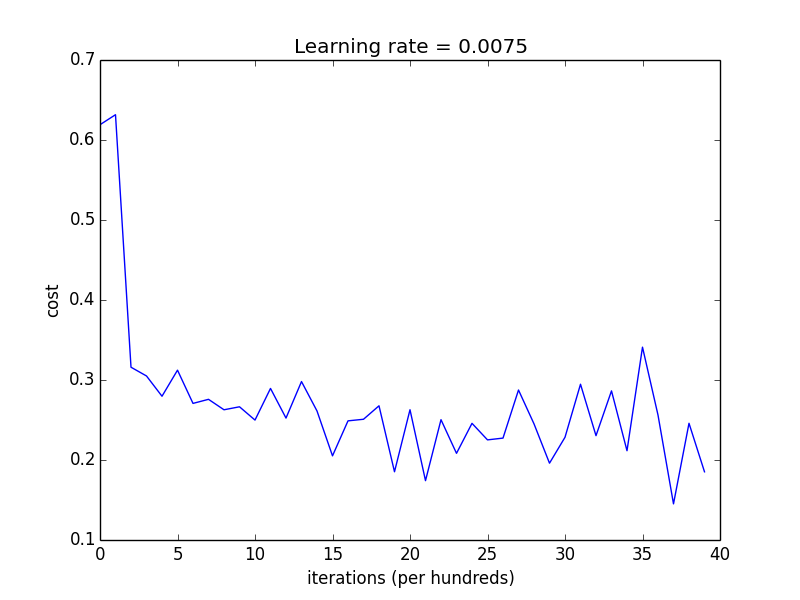
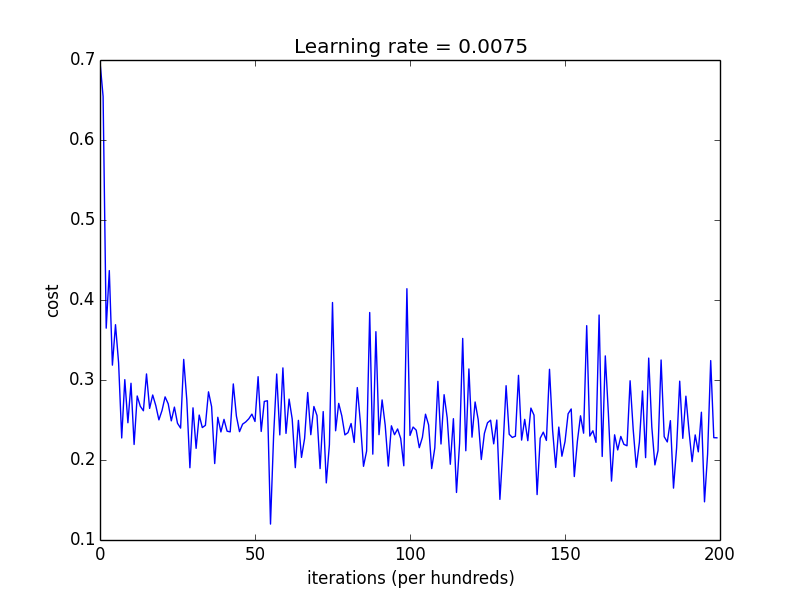
修改REAMDME

diff --git a/lesson4/train_with_paddle.py b/lesson4/train_with_paddle.py
@@ -9,7 +9,7 @@
 Authors: Jiahui Liu(2505774110@qq.com)
 Date:    2017/11/17 17:27:06
 
-使用paddle框架实现深层神经网络识别猫的问题，关键步骤如下：
+使用paddle框架实现浅层神经网络识别“花，型图案，关键步骤如下：
 1.载入数据和预处理：load_data()
 2.初始化
 3.配置网络结构
@@ -26,7 +26,7 @@ import paddle.v2 as paddle
 matplotlib.use('Agg')
 import matplotlib.pyplot as plt
 
-import dnn_utils
+import planar_utils
 
 TRAINING_SET = None
 TEST_SET = None
@@ -48,24 +48,13 @@ def load_data():
     """
     global TRAINING_SET, TEST_SET, DATADIM
 
-    train_set_x_orig, train_set_y, test_set_x_orig, test_set_y, classes = dnn_utils.load_dataset()
-    m_train = train_set_x_orig.shape[0]
-    m_test = test_set_x_orig.shape[0]
-    num_px = train_set_x_orig.shape[1]
+    train_set_x, train_set_y, test_set_x, test_set_y = planar_utils.load_planar_dataset()
 
     # 定义纬度
-    DATADIM = num_px * num_px * 3
+    DATADIM = 2
 
-    # 数据展开,注意此处为了方便处理，没有加上.T的转置操作
-    train_set_x_flatten = train_set_x_orig.reshape(m_train, -1)
-    test_set_x_flatten = test_set_x_orig.reshape(m_test, -1)
-
-    # 归一化
-    train_set_x = train_set_x_flatten / 255.
-    test_set_x = test_set_x_flatten / 255.
-
-    TRAINING_SET = np.hstack((train_set_x, train_set_y.T))
-    TEST_SET = np.hstack((test_set_x, test_set_y.T))
+    TRAINING_SET = np.hstack((train_set_x.T, train_set_y.T))
+    TEST_SET = np.hstack((test_set_x.T, test_set_y.T))
 
 # 读取训练数据或测试数据，服务于train()和test()
 def read_data(data_set):
@@ -262,7 +251,7 @@ def plot_costs(costs):
     plt.plot(costs)
     plt.ylabel('cost')
     plt.xlabel('iterations (per hundreds)')
-    plt.title("Learning rate = 0.000075")
+    plt.title("Learning rate = 0.0075")
     plt.show()
     plt.savefig('costs.png')
 
@@ -286,25 +275,15 @@ def netconfig():
     image = paddle.layer.data(
         name='image', type=paddle.data_type.dense_vector(DATADIM))
 
-    # 隐藏层1，paddle.layer.fc表示全连接层，input=image: 该层输入数据为image
-    # size=20：神经元个数，act=paddle.activation.Relu()：激活函数为Relu()
+    # 隐藏层，paddle.layer.fc表示全连接层，input=image: 该层输入数据为image
+    # size=4：神经元个数，act=paddle.activation.Tanh()：激活函数为Tanh()
     h1 = paddle.layer.fc(
-        input=image, size=20, act=paddle.activation.Relu())
+        input=image, size=4, act=paddle.activation.Tanh())
 
-    # 隐藏层2，paddle.layer.fc表示全连接层，input=h1: 该层输入数据为h1
-    # size=7：神经元个数，act=paddle.activation.Relu()：激活函数为Relu()
-    h2 = paddle.layer.fc(
-        input=h1, size=7, act=paddle.activation.Relu())
-
-    # 隐藏层3，paddle.layer.fc表示全连接层，input=h2: 该层输入数据为h2
-    # size=5：神经元个数，act=paddle.activation.Relu()：激活函数为Relu()
-    h3 = paddle.layer.fc(
-        input=h2, size=5, act=paddle.activation.Relu())
-
-    # 输出层，paddle.layer.fc表示全连接层，input=h3: 该层输入数据为h3
+    # 输出层，paddle.layer.fc表示全连接层，input=h1: 该层输入数据为h1
     # size=1：神经元个数，act=paddle.activation.Sigmoid()：激活函数为Sigmoid()
     y_predict = paddle.layer.fc(
-        input=h3, size=1, act=paddle.activation.Sigmoid())
+        input=h1, size=1, act=paddle.activation.Sigmoid())
 
     # 标签数据，paddle.layer.data表示数据层，name=’label’：名称为label
     # type=paddle.data_type.dense_vector(1)：数据类型为1维稠密向量
@@ -318,7 +297,7 @@ def netconfig():
     parameters = paddle.parameters.create(cost)
 
     # 创建optimizer，并初始化momentum和learning_rate
-    optimizer = paddle.optimizer.Momentum(momentum=0, learning_rate=0.000075)
+    optimizer = paddle.optimizer.Momentum(momentum=0, learning_rate=0.0075)
 
     # 数据层和数组索引映射，用于trainer训练时喂数据
     feeding = {
@@ -385,7 +364,7 @@ def main():
             batch_size=256),
         feeding=feeding,
         event_handler=event_handler,
-        num_passes=3000)
+        num_passes=10000)
 
     # 预测
     infer(y_predict, parameters)

diff --git a/lesson3/README.md b/lesson3/README.md
@@ -1,4 +1,4 @@
-# Lesson3: Logistic Regression
+# Lesson3: 逻辑回归（Logistic Regression）
 
 本实验内容主要为分别利用python和paddlepaddle框架来实现Logistic Regression，用于解决识别猫问题。
 
@@ -13,11 +13,11 @@
 
 * [lr_utils.py](lr_utils.py)：工具类，包含load_data()函数，用于载入数据
 
-* [train.py](train.py)：Logistic Regression的Python版本实现
+* [train_with_numpy.py](train.py)：Logistic Regression的Python版本实现
 
 * [train_with_paddle.py](train_with_paddle.py)：Logistic Regression的Paddlepaddle版本实现
 
-* [predict.py](predict.py)：对训练完成的模型进行预测和检验，使用Paddlepaddle实现
+* [predict_with_paddle.py](predict_with_paddle.py)：对训练完成的模型进行预测和检验，使用Paddlepaddle实现（在教材中将该部分合并至train_with_paddle.py中，但实际上应单独作为文件）
 
 * [costs.png](costs.png)：成本变化曲线图
  

diff --git a/lesson2/README.md b/lesson2/README.md
@@ -1,11 +1,11 @@
-# Lesson2：Linear Regression
+# Lesson2：线性回归（Linear Regression）
 
 本次试验利用paddlepaddle框架来实现机器学习中最简单的Linear Regression,解决预测房价问题。帮助读者熟悉paddlepaddle的操作。
 
 包含内容
 
 *  [data](data.txt)： 数据集，包含北京市北苑地区的房屋面积和房价
-*  [train.py](train.py)： Linear Regression的paddlepaddle版本实现
+*  [train_with_paddle.py](train.py)： Linear Regression的paddlepaddle版本实现
 *  [plotdata.py](plotdata.py)： 展示房屋价格与房屋面积的分布以及参数a，b生成的线性回归结果
 *  [result.png](result.png)： 房价拟合结果图
 *  [costs.png](costs.png)： 成本变化曲线图

diff --git a/lesson1/README.md b/lesson1/README.md
@@ -1,4 +1,4 @@
-# Lesson1: Basic Numpy and Matplotlib
+# Lesson1: Numpy与Matplotlib基础（Basic Numpy and Matplotlib）
 
 本实验代码与教材第一章配套，为介绍Numpy和Maplotlib两个模块的常用函数及基本用法，解决一些实际问题。
 > 注意： 代码中相关知识的详细说明参考教材第一章的相关描述
